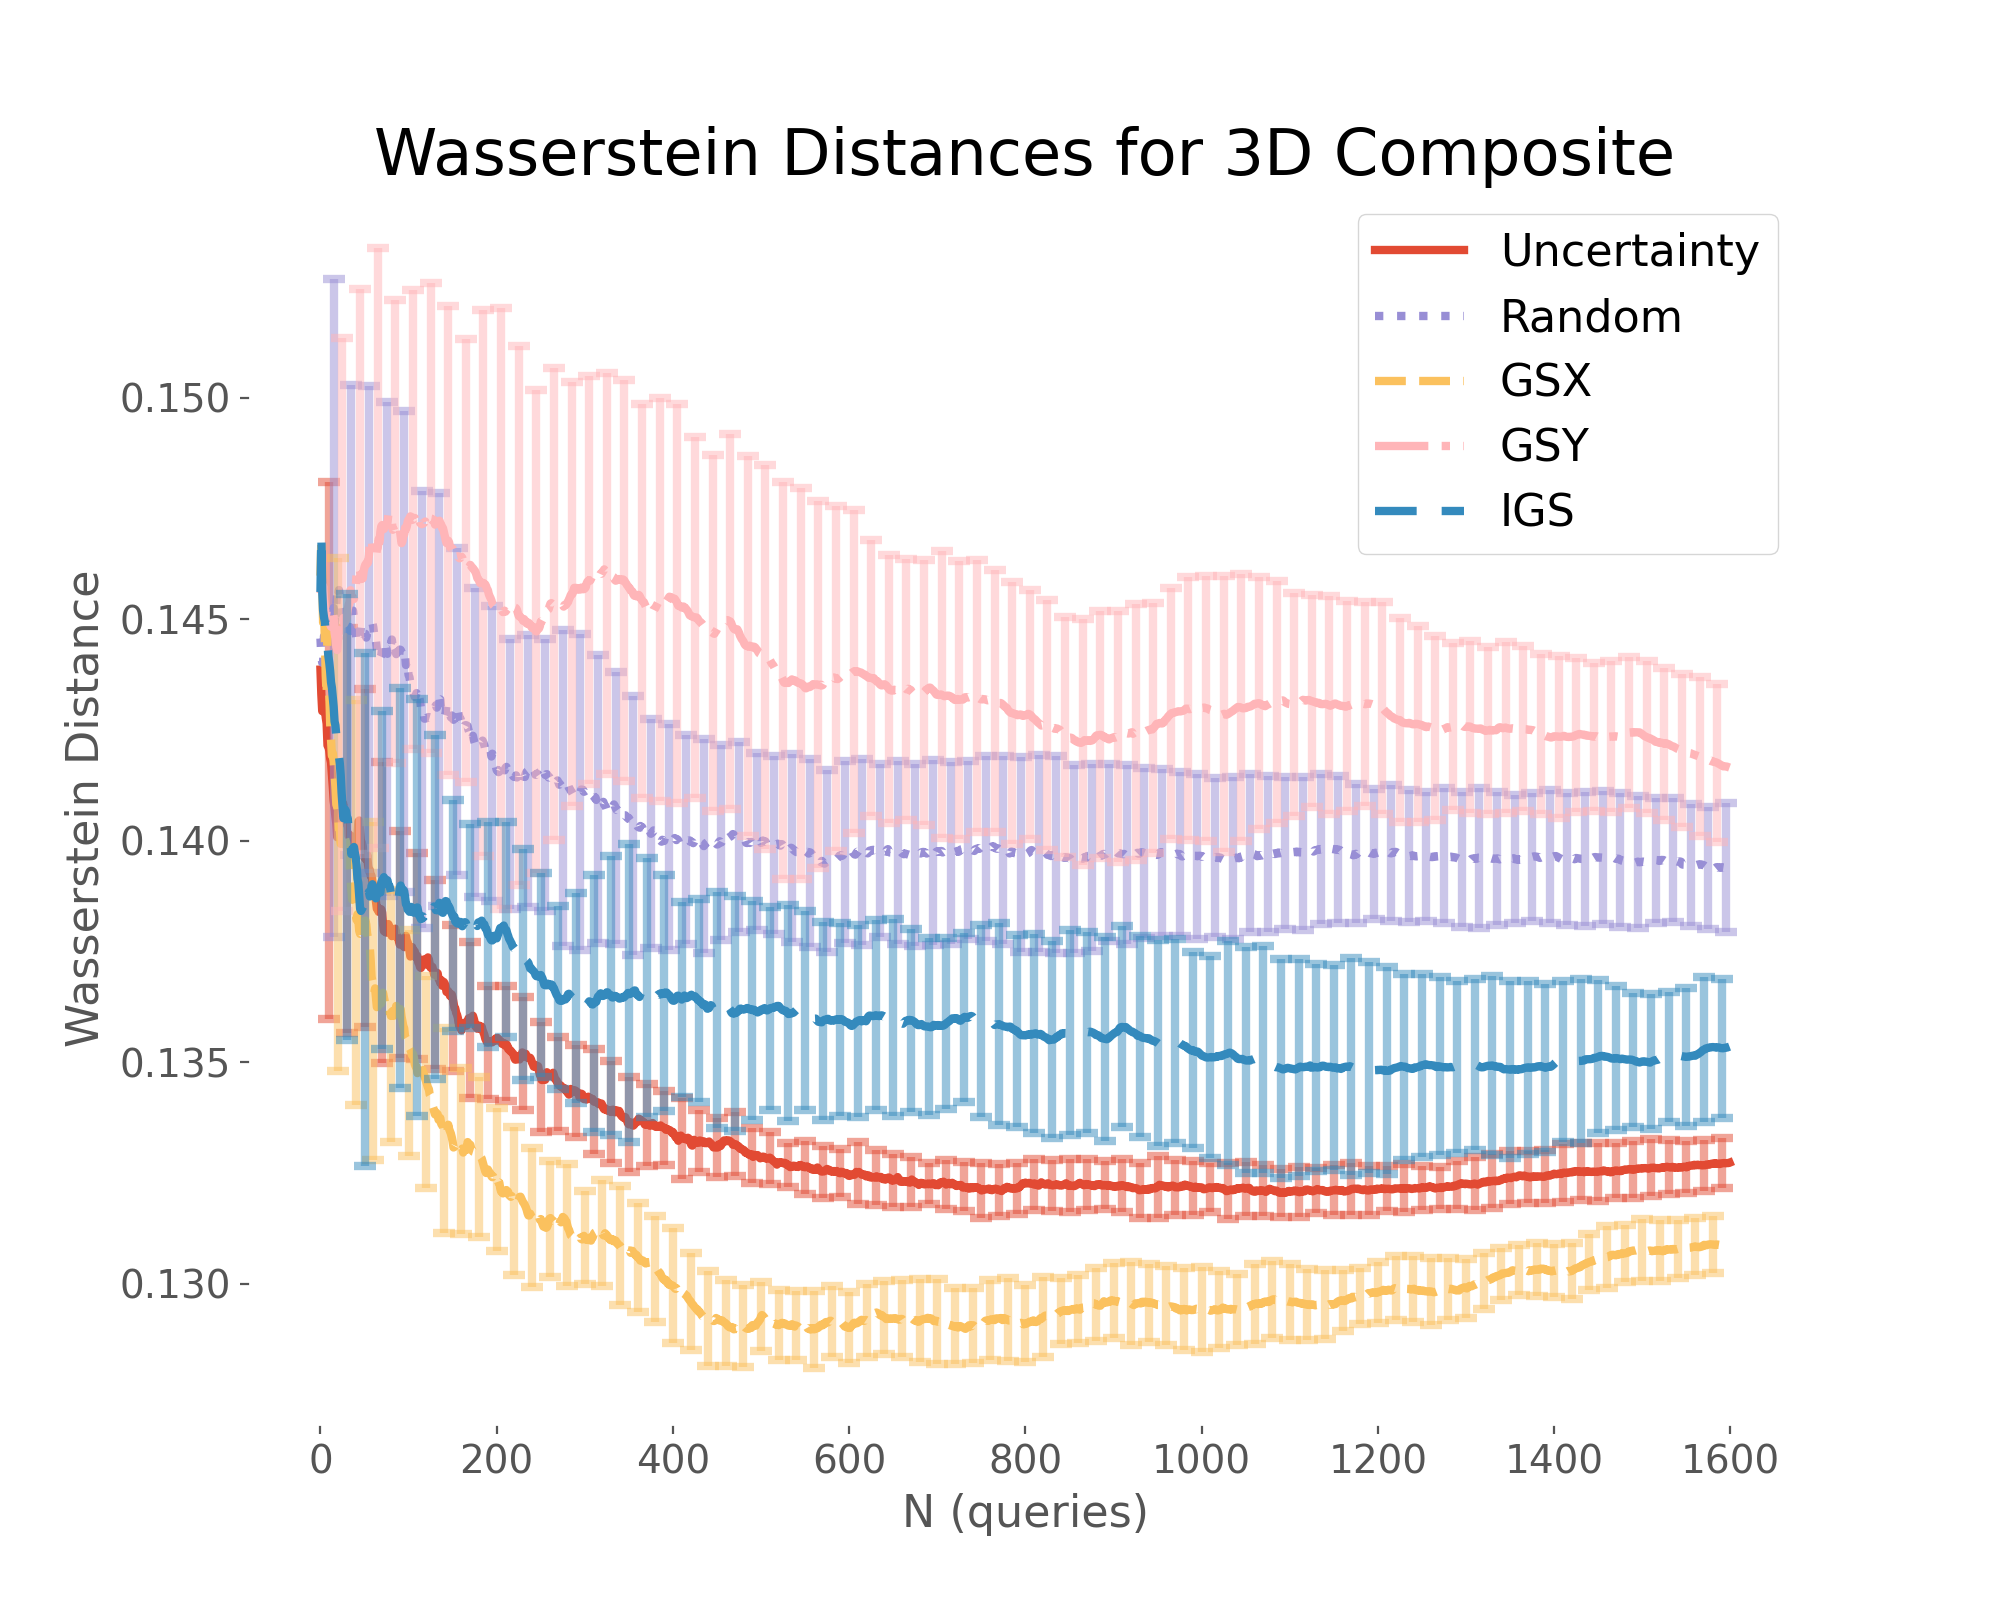
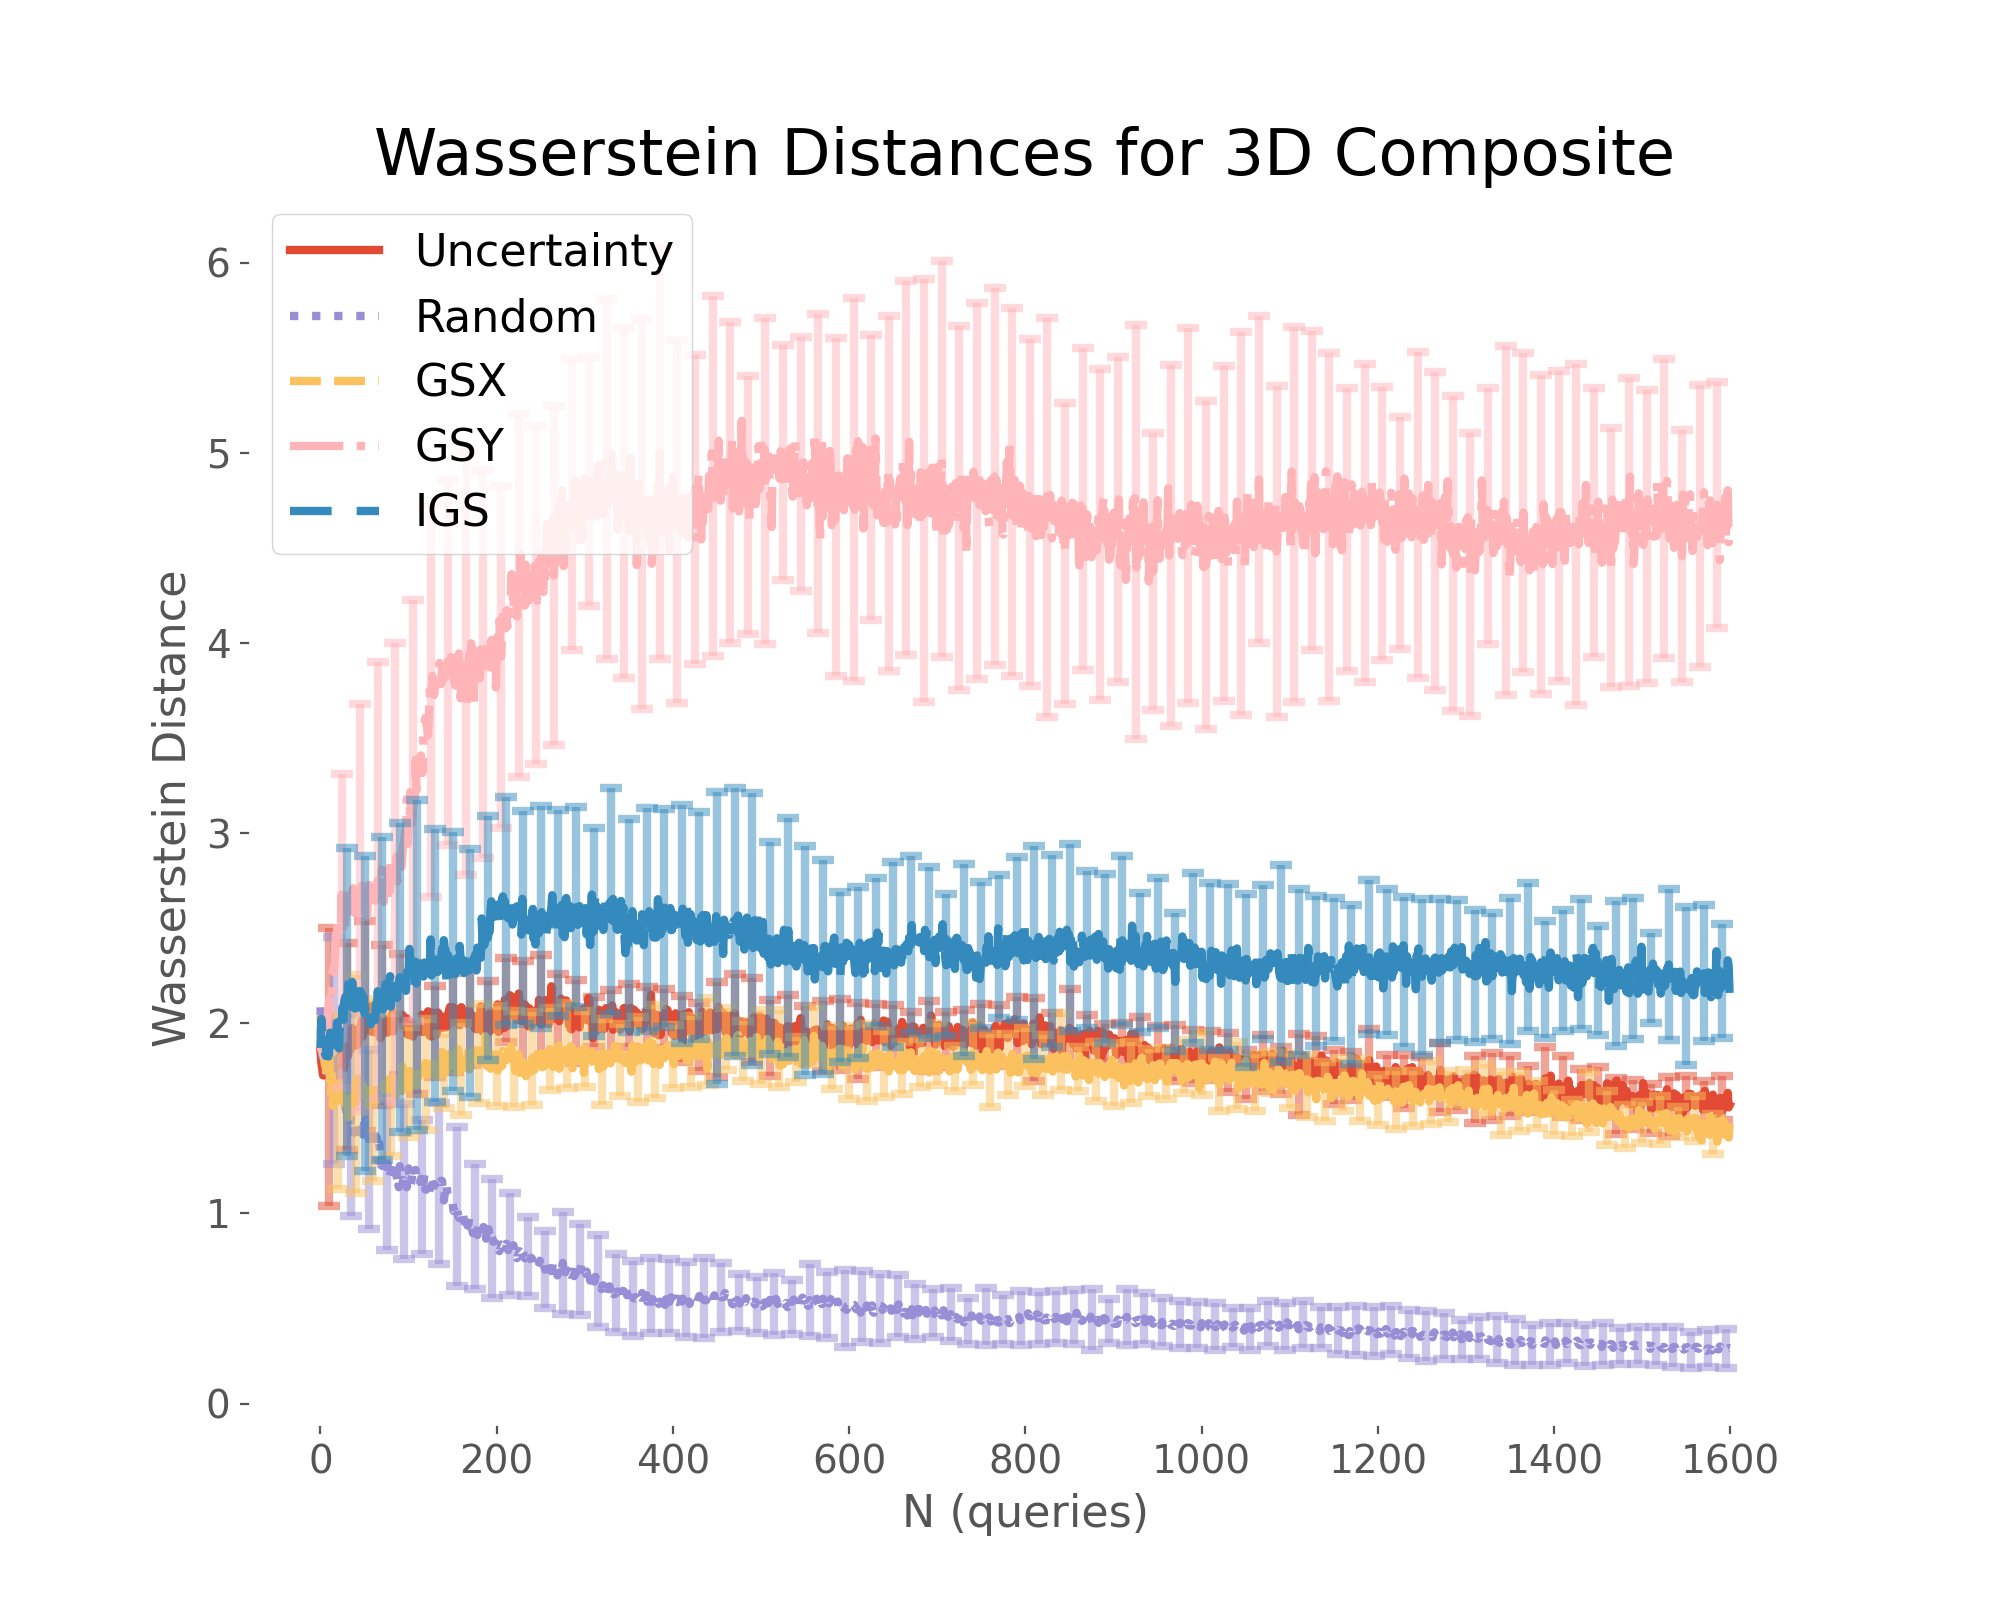
New method to calculate Wasserstein distance

diff --git a/3D/calc-wasserstein.md b/3D/calc-wasserstein.md
@@ -42,7 +42,7 @@ from pymks.fmks.func import sequence
 
 ```python
 @curry
-def wasserstein(arr1, arr2):
+def wasserstein_(arr1, arr2):
     """Calculate the Wasserstein distance between two arrays
     
     Args:
@@ -60,6 +60,11 @@ def wasserstein(arr1, arr2):
         g(ot.dist(arr1, arr2)),
         1.0
     )
+
+
+@curry
+def wasserstein(arr1, arr2):
+    return ot.sliced_wasserstein_distance(arr1, arr2)
 
 def swap_(list_):
     """Swap a list of dictionaries with same keys to be a dictionary of lists
